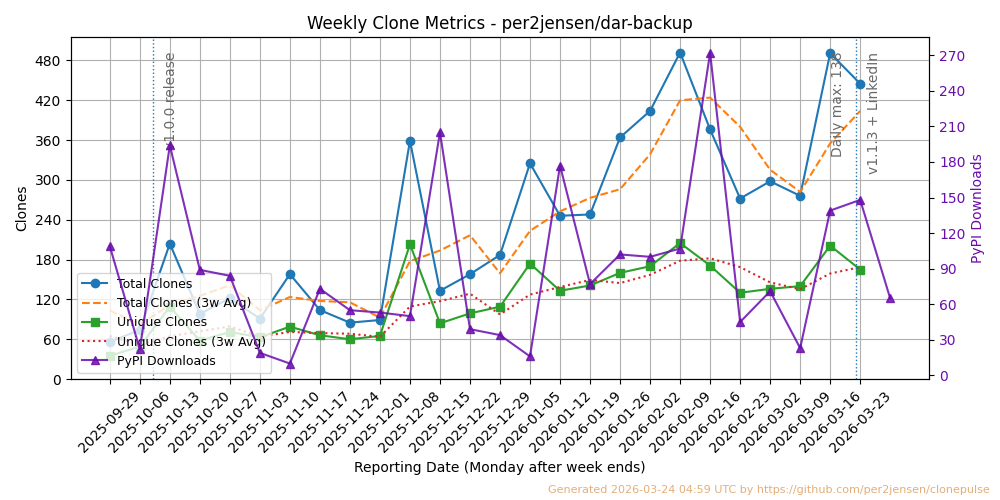
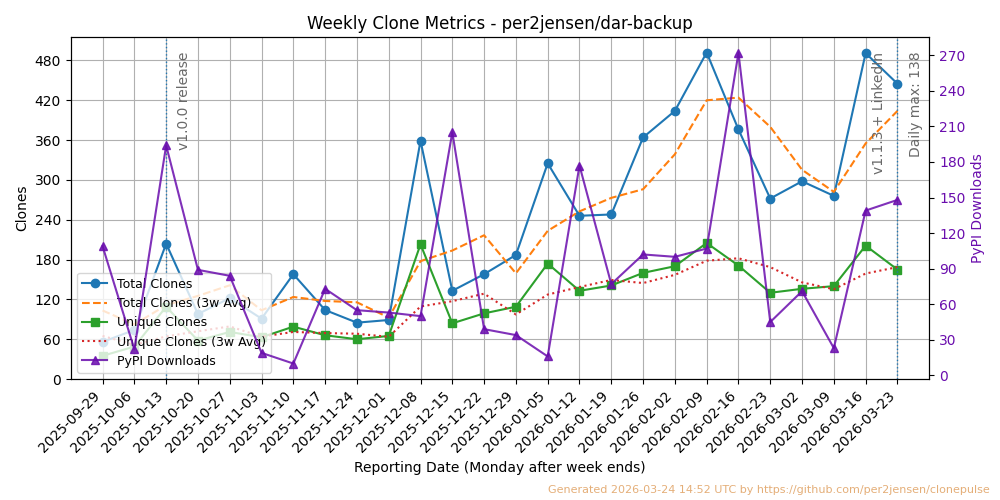
Dashboard generator tweaks to align annotations and dates

diff --git a/src/clonepulse/generate_clone_dashboard.py b/src/clonepulse/generate_clone_dashboard.py
@@ -517,10 +517,13 @@ def main(argv=None):
     ax2 = None
     dl_lines = []
     if downloads_weekly is not None:
-        # Filter downloads to the same report_date window as clone data
+        # Filter downloads to exactly the same report_date window as clone data.
+        # Do NOT extend by +7 days: that would include a partial current week
+        # whose report_date falls beyond plot_end, pushing ax2's x-range past
+        # the last clone tick and breaking the shared x-axis limits.
         dl_window = downloads_weekly[
             (downloads_weekly["report_date"] >= plot_start) &
-            (downloads_weekly["report_date"] <= plot_end + pd.Timedelta(days=7))
+            (downloads_weekly["report_date"] <= plot_end)
         ].copy()
         if not dl_window.empty:
             ax2 = ax.twinx()
@@ -556,12 +559,23 @@ def main(argv=None):
 
     if not annotation_df.empty:
         for ann_date, group in annotation_df.groupby("date", sort=True):
-            ax.axvline(x=ann_date, linestyle=":", linewidth=1)
+            # Snap the annotation to the report_date of its week (the following Monday)
+            # so vertical lines align with x-axis ticks, which are all report_dates.
+            week_start = ann_date - pd.Timedelta(days=ann_date.weekday())
+            ann_report_date = week_start + pd.Timedelta(days=7)
+            ax.axvline(x=ann_report_date, linestyle=":", linewidth=1)
             side_counts = {"left": 0, "right": 0}
+            # At the right edge of the plot, text placed to the right would overflow
+            # outside the axes boundary, so prefer left for all labels on that tick.
+            at_right_edge = ann_report_date >= plot_end
             for _, row in group.iterrows():
                 label = _truncate_on_word_boundary(row["label"], max_chars)
-                # Alternate annotation placement left/right of the date line
-                side = "right" if side_counts["right"] <= side_counts["left"] else "left"
+                # Alternate annotation placement left/right of the date line,
+                # but always prefer left when the line is at the right plot boundary.
+                if at_right_edge:
+                    side = "left" if side_counts["left"] <= side_counts["right"] else "right"
+                else:
+                    side = "right" if side_counts["right"] <= side_counts["left"] else "left"
                 side_index = side_counts[side]
                 side_counts[side] += 1
 
@@ -572,7 +586,7 @@ def main(argv=None):
                 vertical_offset = -vertical_offset_base - side_index * vertical_offset_step_pts
                 ax.annotate(
                     label,
-                    xy=(ann_date, label_y),
+                    xy=(ann_report_date, label_y),
                     xytext=(horizontal_offset, vertical_offset),
                     textcoords="offset points",
                     rotation=90,
@@ -605,7 +619,13 @@ def main(argv=None):
     tick_dates = pd.to_datetime(weekly_data["report_date"], errors="coerce")
     tick_labels = tick_dates.dt.strftime("%Y-%m-%d").fillna("Invalid")
     ax.set_xticks(tick_dates.to_list())
-    ax.set_xticklabels(tick_labels.to_list(), rotation=45)
+    ax.set_xticklabels(tick_labels.to_list(), rotation=45, ha="right")
+    # Pad x-axis by half a week on each side so edge ticks and their annotation
+    # labels have breathing room and are not clipped at the axis boundary.
+    ax.set_xlim(
+        left=tick_dates.min() - pd.Timedelta(days=7),
+        right=tick_dates.max() + pd.Timedelta(days=7),
+    )
 
     # Merge legends from both axes so everything appears in one box
     all_lines = [l1, l2, l3, l4] + dl_lines
